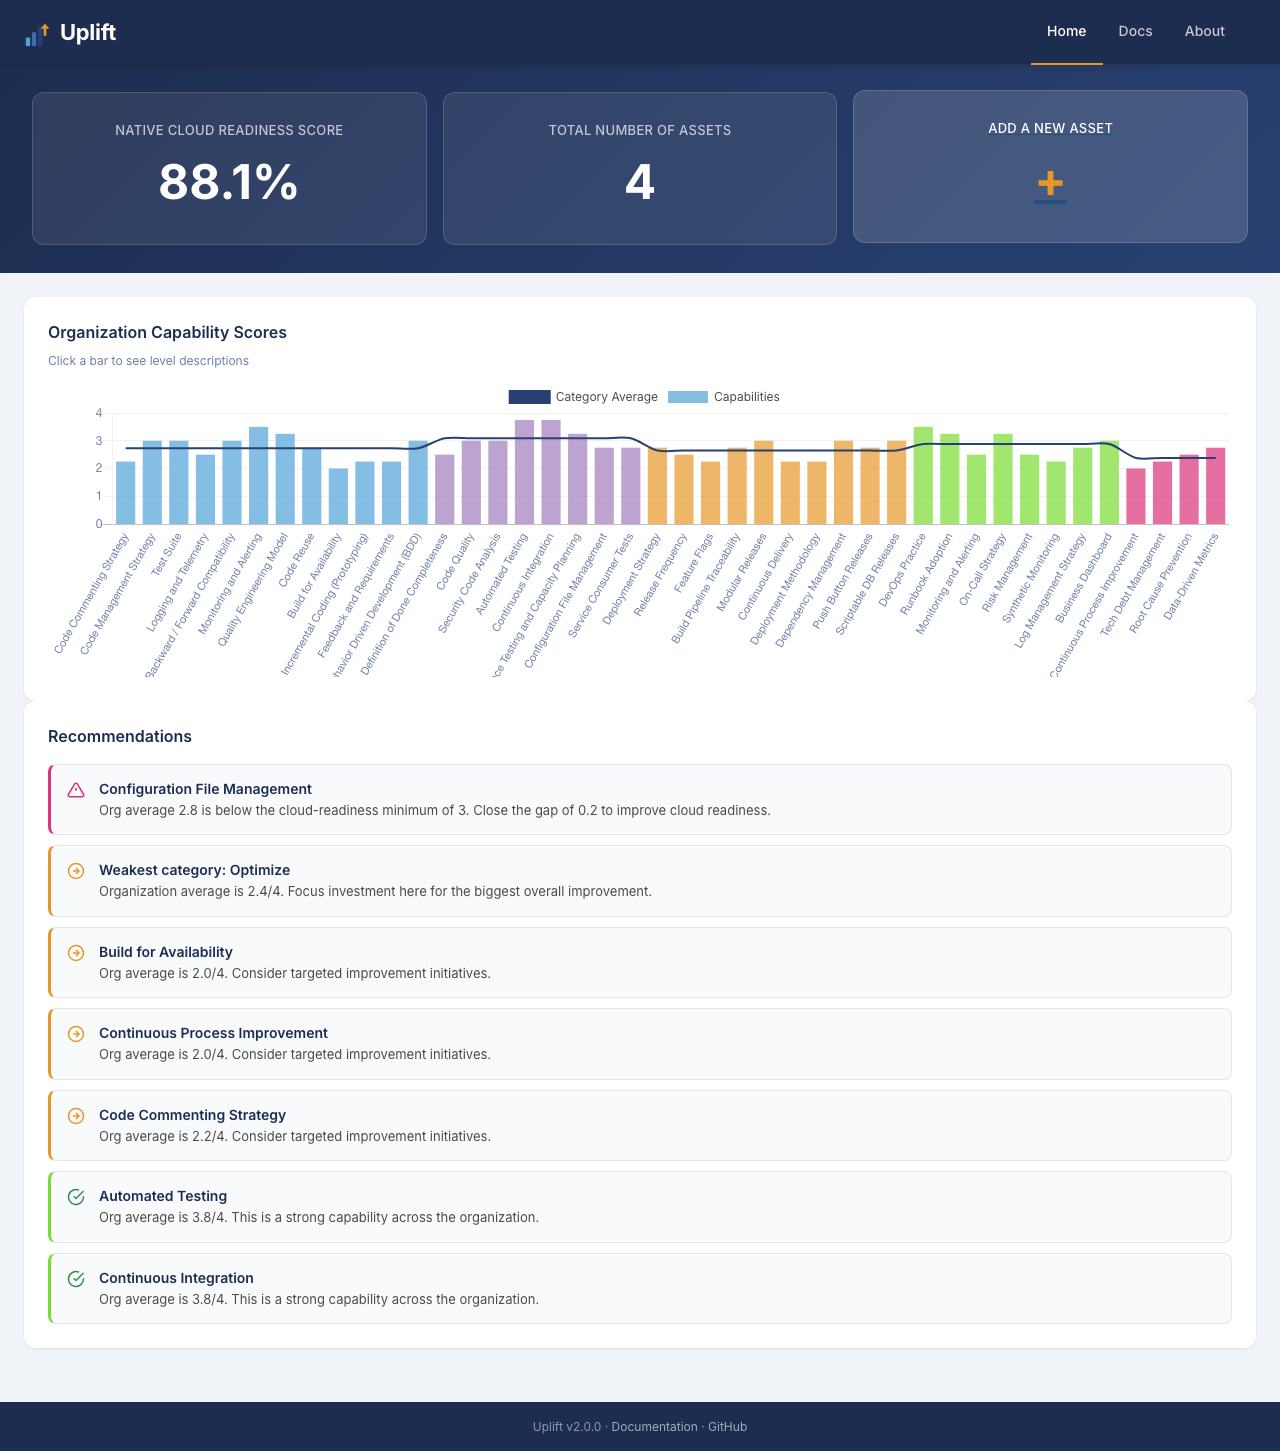
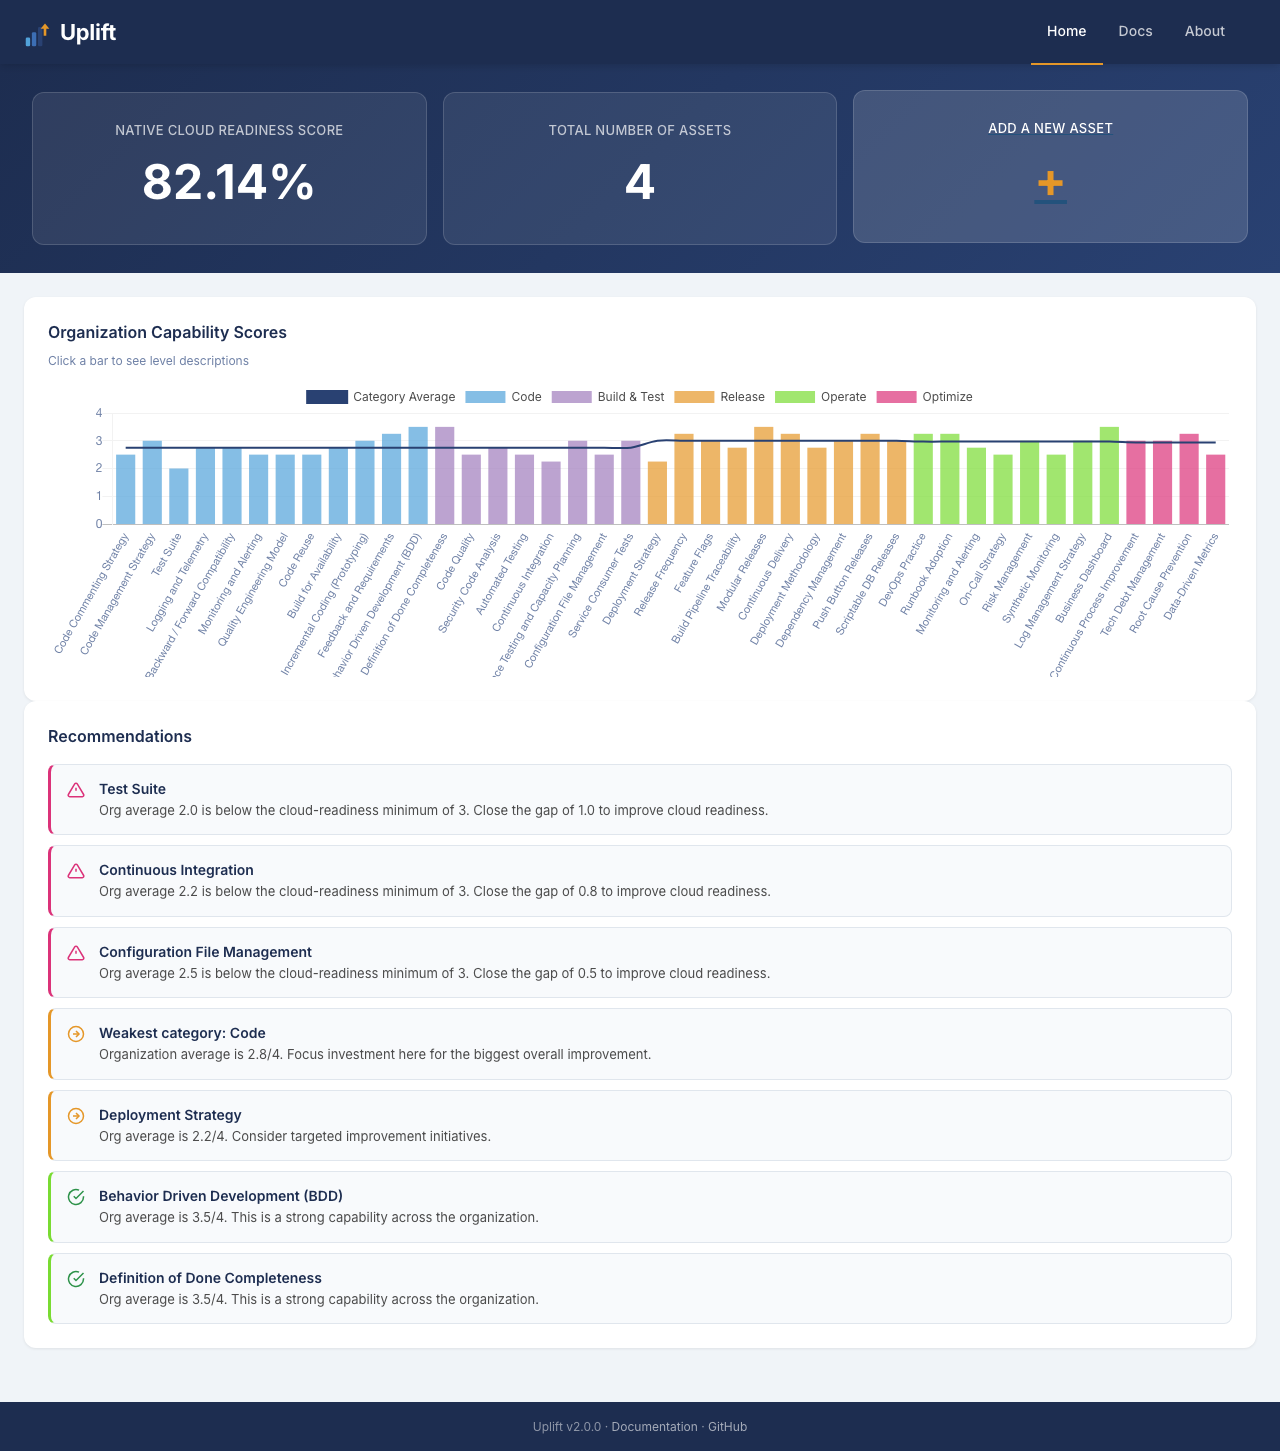
Split dashboard chart legend into per-category entries with colors

diff --git a/app/templates/pages/dashboard.html b/app/templates/pages/dashboard.html
@@ -180,16 +180,25 @@ document.addEventListener('DOMContentLoaded', function() {
     var capFields = {{ cap_fields_json | tojson }};
     var capDetails = {{ cap_details_json | tojson }};
     var catExpanded = {{ cat_expanded_json | tojson }};
-    // Category colors: Code=#51a2da, Build&Test=#a07cbc, Release=#e59728, Operate=#79db32, Optimize=#db3279
-    var catColors = {
-        a: 'rgba(81,162,218,0.7)',  // Code (12 capabilities)
-        b: 'rgba(160,124,188,0.7)', // Build & Test (8)
-        c: 'rgba(229,151,40,0.7)',  // Release (10)
-        d: 'rgba(121,219,50,0.7)',  // Operate (8)
-        e: 'rgba(219,50,121,0.7)'   // Optimize (4)
-    };
-    var bgColors = [];
-    capFields.forEach(function(f) { bgColors.push(catColors[f[0]]); });
+    // One dataset per category so each gets its own legend entry
+    var catDefs = [
+        { key: 'a', label: 'Code', color: 'rgba(81,162,218,0.7)' },
+        { key: 'b', label: 'Build & Test', color: 'rgba(160,124,188,0.7)' },
+        { key: 'c', label: 'Release', color: 'rgba(229,151,40,0.7)' },
+        { key: 'd', label: 'Operate', color: 'rgba(121,219,50,0.7)' },
+        { key: 'e', label: 'Optimize', color: 'rgba(219,50,121,0.7)' }
+    ];
+    var barDatasets = catDefs.map(function(cat) {
+        return {
+            type: 'bar',
+            label: cat.label,
+            data: capFields.map(function(f, i) { return f[0] === cat.key ? capScores[i] : null; }),
+            backgroundColor: cat.color,
+            borderColor: 'transparent',
+            borderWidth: 0,
+            borderRadius: 3
+        };
+    });
 
     var ctx = document.getElementById("category-average-graph");
     var capChart = new Chart(ctx, {
@@ -205,30 +214,22 @@ document.addEventListener('DOMContentLoaded', function() {
                 lineTension: 0.3,
                 pointRadius: 0,
                 fill: false
-            },{
-                type: 'bar',
-                label: 'Capabilities',
-                data: capScores,
-                backgroundColor: bgColors,
-                borderColor: 'transparent',
-                borderWidth: 0,
-                borderRadius: 3
-            }]
+            }].concat(barDatasets)
         },
         options: {
             layout: { padding: { bottom: 10 } },
             responsive: true,
             legend: { labels: { fontFamily: "'Inter', sans-serif", fontSize: 12, fontColor: '#4c4c4c' } },
             scales: {
-                xAxes: [{ ticks: { display: true, autoSkip: false, max: 5, minRotation: 60, maxRotation: 60, fontColor: '#6f81a6', fontSize: 11 }, gridLines: { display: false } }],
-                yAxes: [{ ticks: { min: 0, beginAtZero: true, max: 4, stepSize: 1, fontColor: '#6f81a6' }, gridLines: { color: 'rgba(0,0,0,0.05)' } }]
+                xAxes: [{ stacked: true, ticks: { display: true, autoSkip: false, max: 5, minRotation: 60, maxRotation: 60, fontColor: '#6f81a6', fontSize: 11 }, gridLines: { display: false } }],
+                yAxes: [{ stacked: true, ticks: { min: 0, beginAtZero: true, max: 4, stepSize: 1, fontColor: '#6f81a6' }, gridLines: { color: 'rgba(0,0,0,0.05)' } }]
             },
             onClick: function(evt, items) {
                 if (!items || !items.length) return;
-                // Find the bar element (dataset index 1), skip line elements
+                // Find the bar element, skip line elements (dataset index 0)
                 var barItem = null;
                 for (var j = 0; j < items.length; j++) {
-                    if (items[j]._datasetIndex === 1) { barItem = items[j]; break; }
+                    if (items[j]._datasetIndex >= 1) { barItem = items[j]; break; }
                 }
                 if (!barItem) barItem = items[0];
                 var idx = barItem._index;